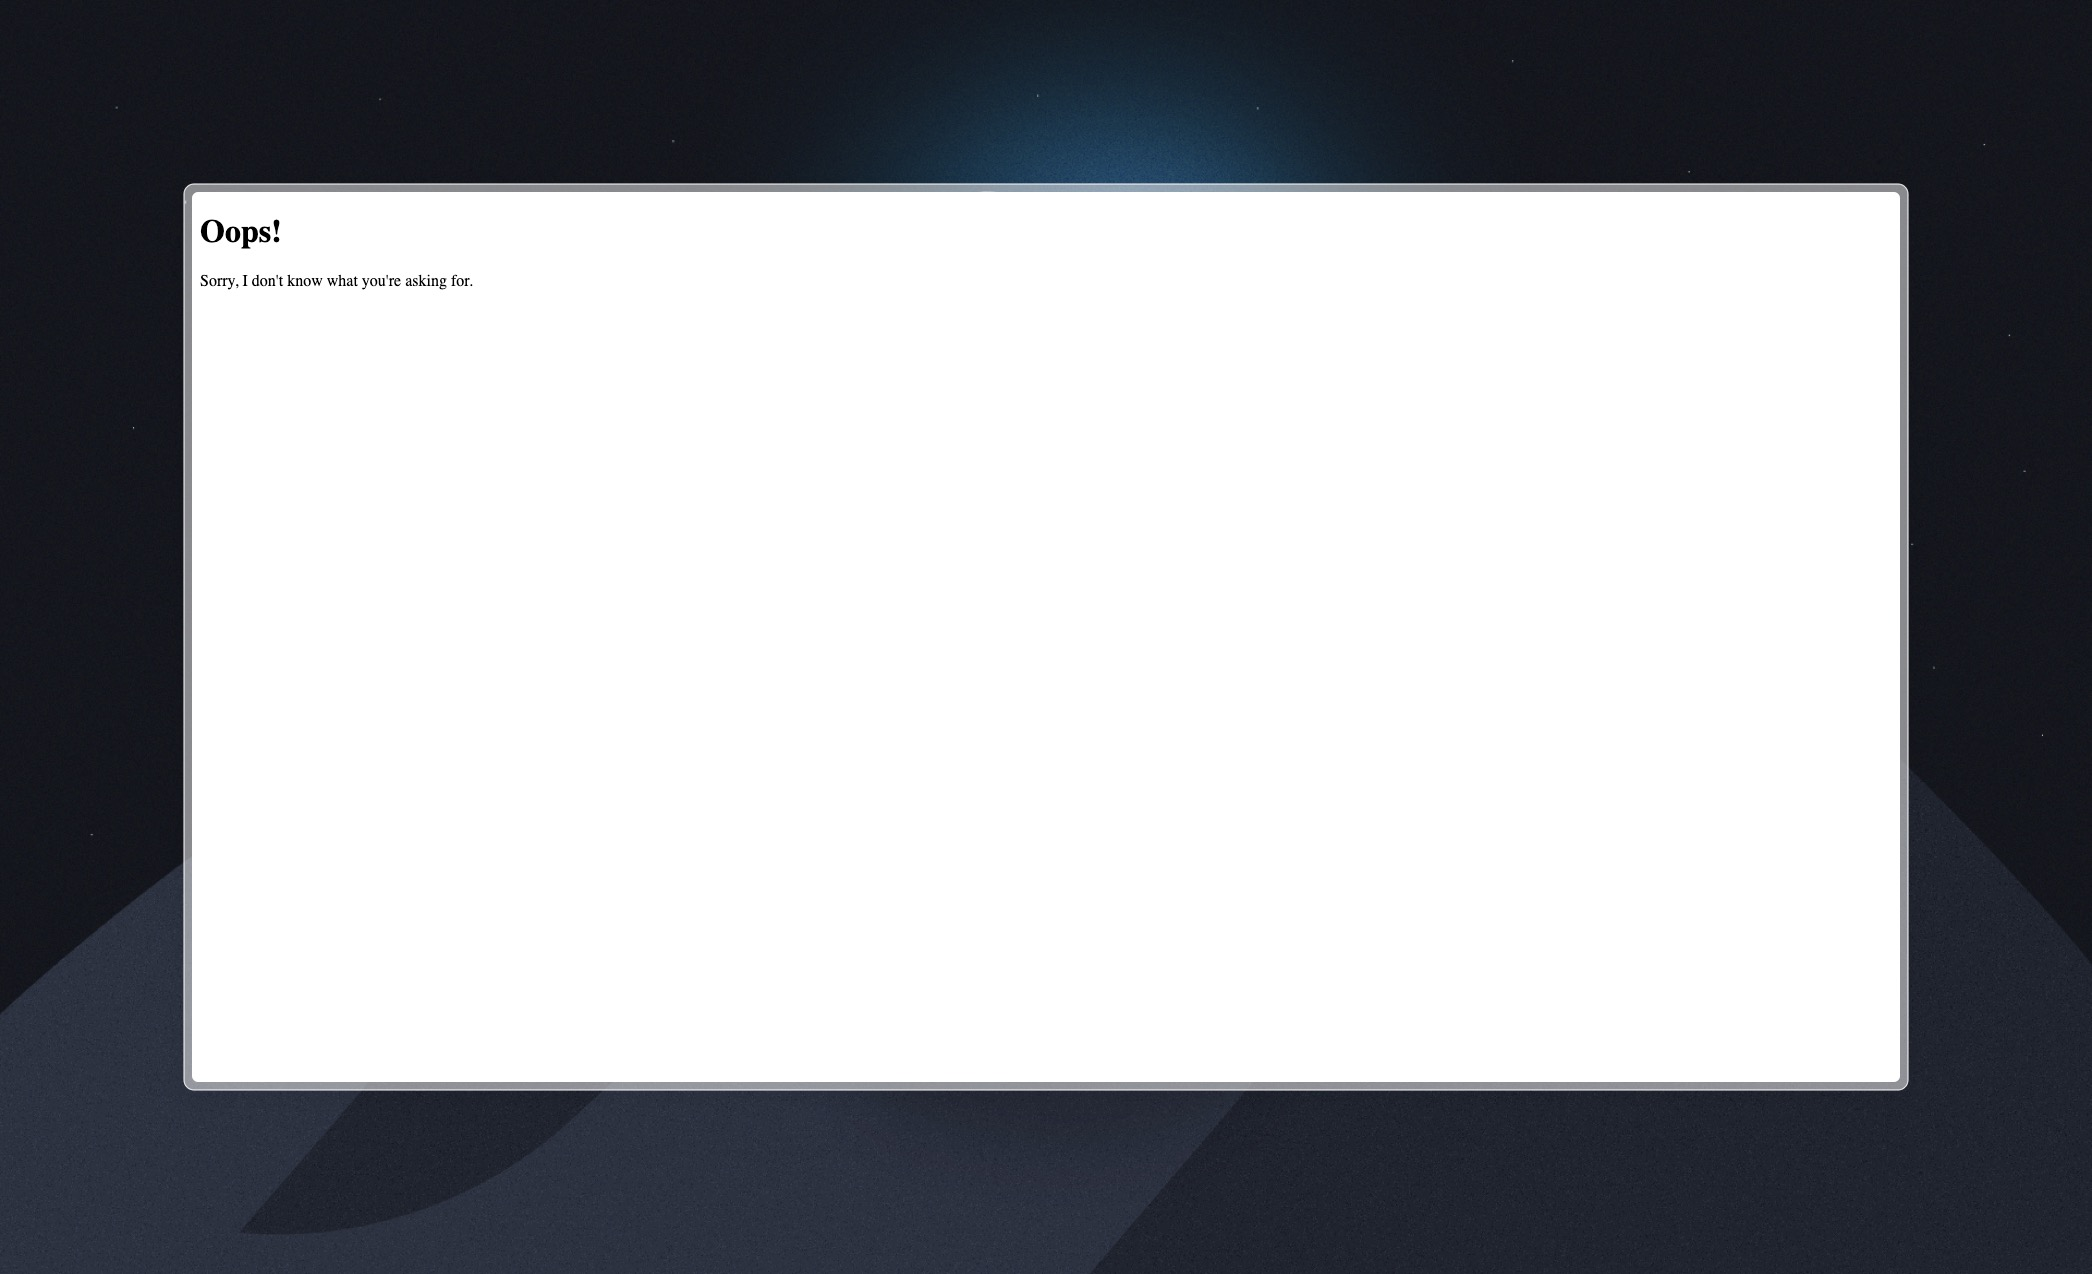
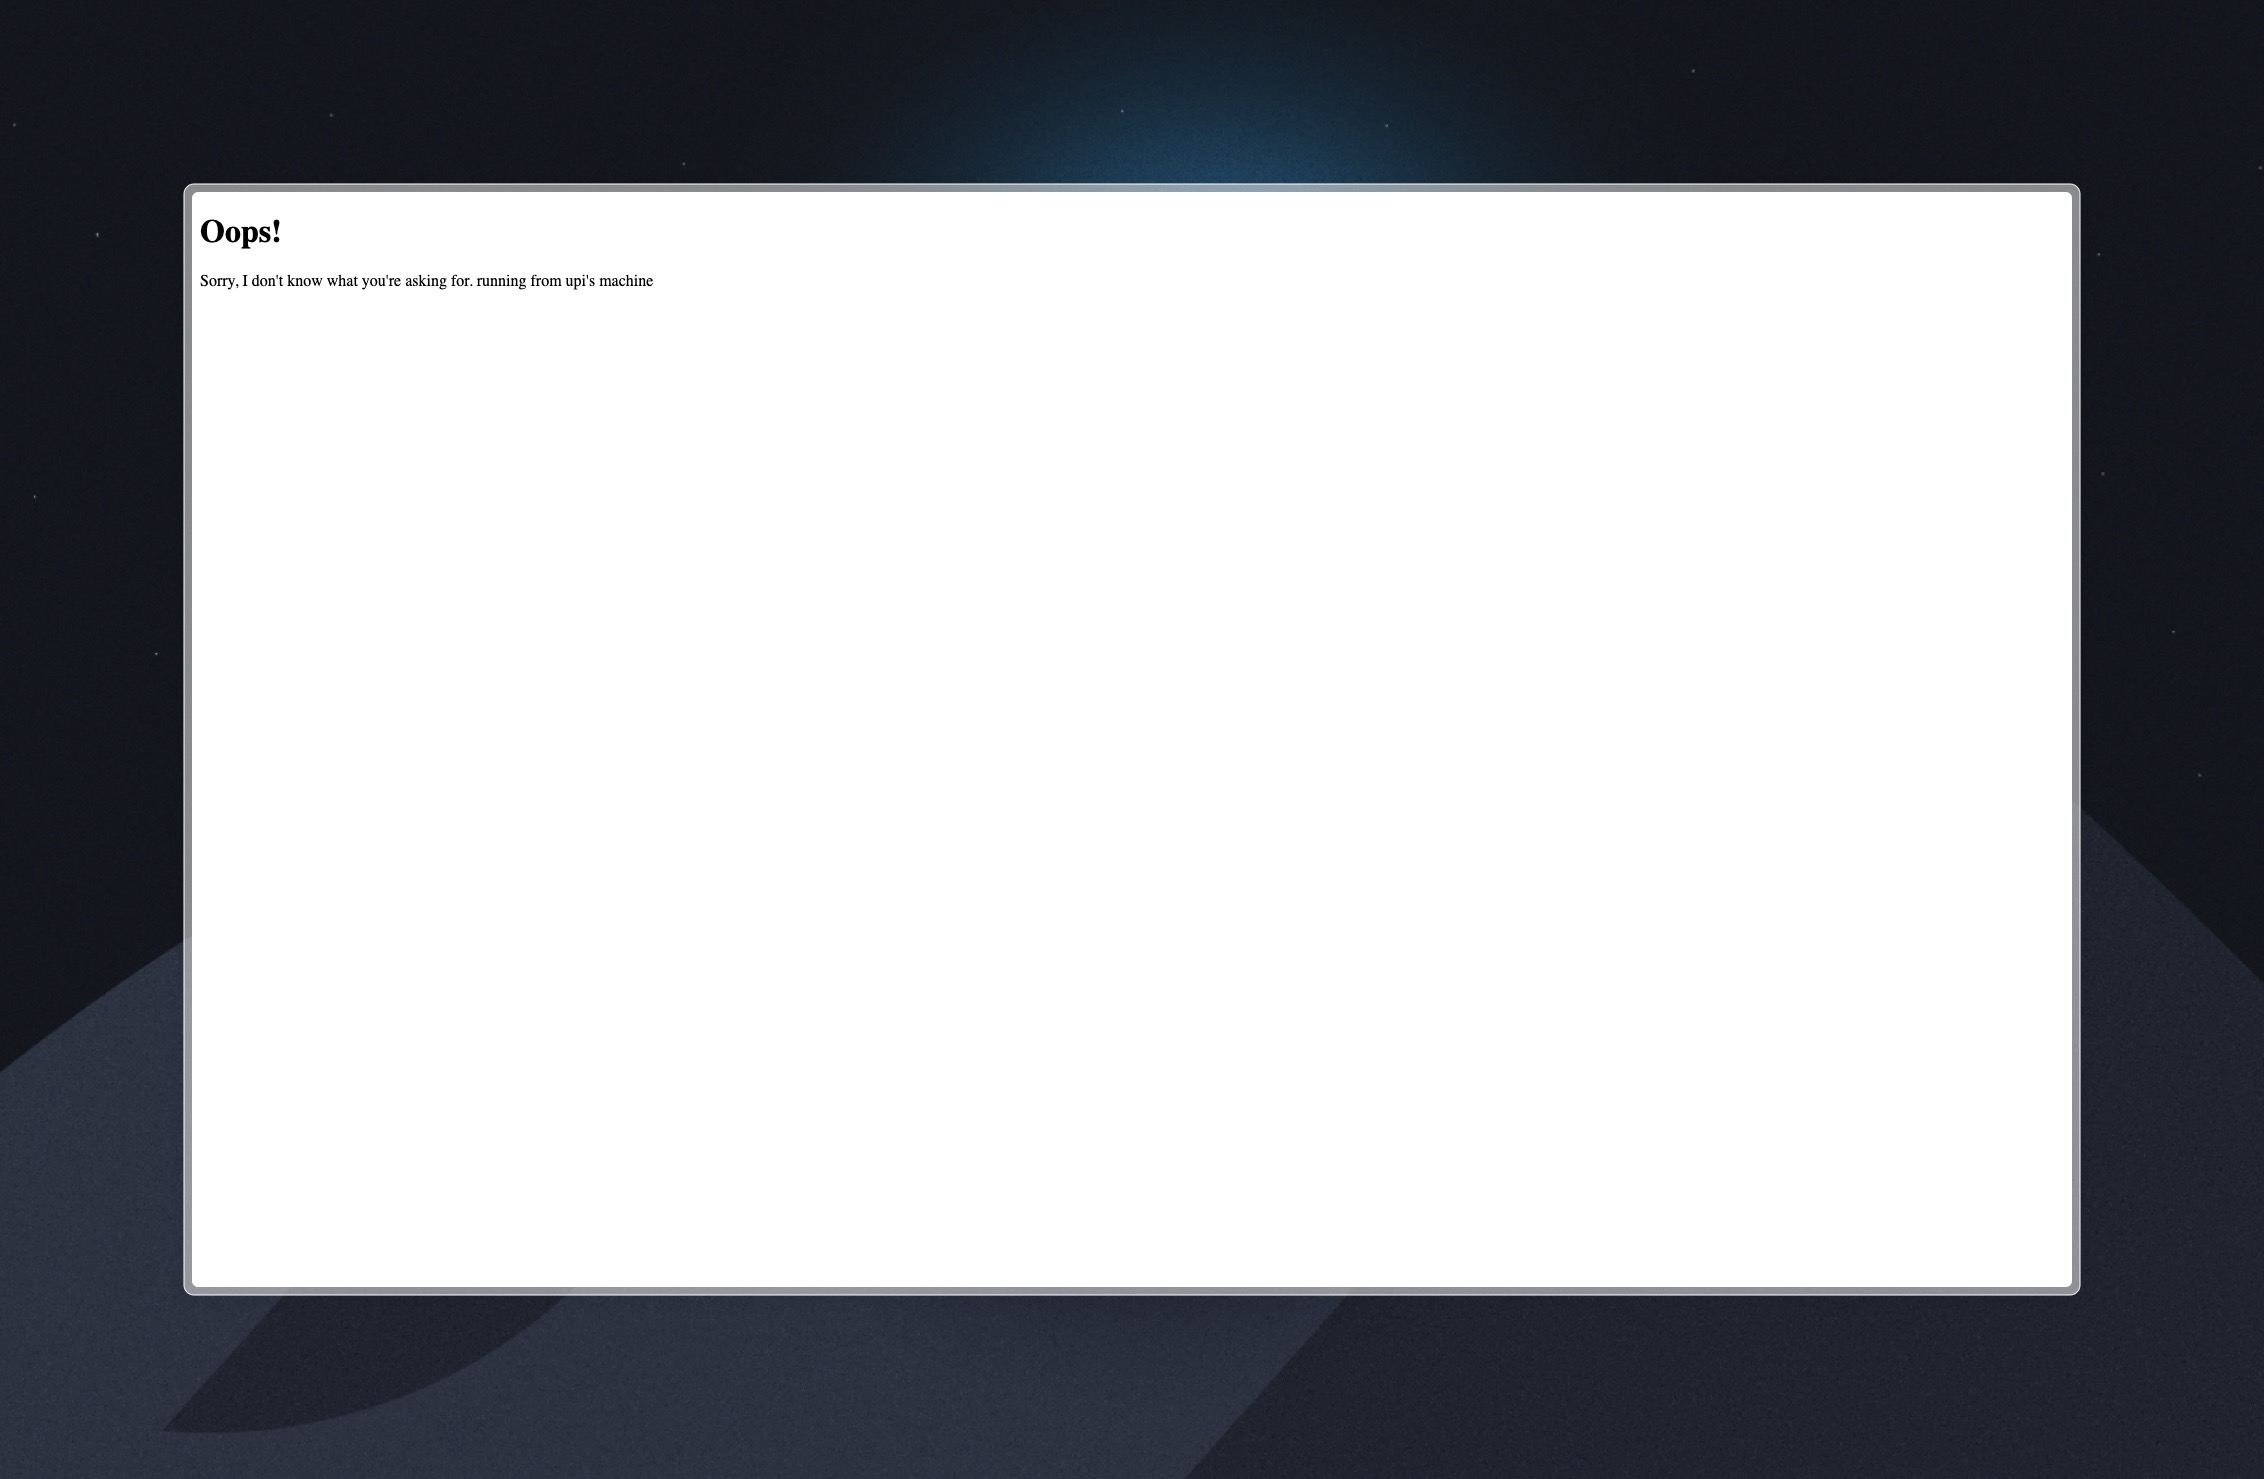
(4) Simulation of slow request.

Changed region(s): [[0.0, 0.1224, 0.9321, 0.8878]]

diff --git a/404.html b/404.html
@@ -6,6 +6,6 @@
   </head>
   <body>
     <h1>Oops!</h1>
-    <p>Sorry, I don't know what you're asking for.</p>
+    <p>Sorry, I don't know what you're asking for. running from upi's machine</p>
   </body>
 </html>

diff --git a/src/main.rs b/src/main.rs
@@ -2,6 +2,8 @@ use std::{
     fs,
     io::{prelude::*, BufReader},
     net::{TcpListener, TcpStream},
+    thread,
+    time::Duration,
 };
 
 fn main() {
@@ -11,24 +13,25 @@ fn main() {
         let stream = stream.unwrap();
         handle_connection(stream);
     }
-
 }
 
 fn handle_connection(mut stream: TcpStream) {
     let buf_reader = BufReader::new(&mut stream);
     let request_line = buf_reader.lines().next().unwrap().unwrap();
 
-    let (status_line, filename) = if request_line == "GET / HTTP/1.1" {
-        ("HTTP/1.1 200 OK", "hello.html")
-    } else {
-        ("HTTP/1.1 404 NOT FOUND", "404.html")
+    let (status_line, filename) = match &request_line[..] {
+        "GET / HTTP/1.1" => ("HTTP/1.1 200 OK", "hello.html"),
+        "GET /sleep HTTP/1.1" => {
+            thread::sleep(Duration::from_secs(10));
+            ("HTTP/1.1 200 OK", "hello.html")
+        }
+        _ => ("HTTP/1.1 404 NOT FOUND", "404.html"),
     };
 
     let contents = fs::read_to_string(filename).unwrap();
     let length = contents.len();
 
-    let response =
-        format!("{status_line}\r\nContent-Length: {length}\r\n\r\n{contents}");
+    let response = format!("{status_line}\r\nContent-Length: {length}\r\n\r\n{contents}");
 
     stream.write_all(response.as_bytes()).unwrap();
 }

diff --git a/README.md b/README.md
@@ -13,3 +13,8 @@ In this commit, I added a simple landing page to the webserver. The landing page
 ![Commit 3 screen capture](/assets/images/commit3.jpeg)
 Followed the link given on how to route for unknown pages. Pretty standard procedure for a 404 page. The book is easy to follow. I'm starting to get a feel of the syntax and feel of rust. The code is simple and easy to understand, making it easy to follow the flow of the code. there are also some refactoring happening.
 
+### Refleksi Commit 4
+There is little to reflect here. Just copy pasting another sample of code. Did the thing where I open 2 browser windows and indeed it was slow. It's pretty obvious it has something to do with single threading.
+
+### Refleksi Commit 5
+
